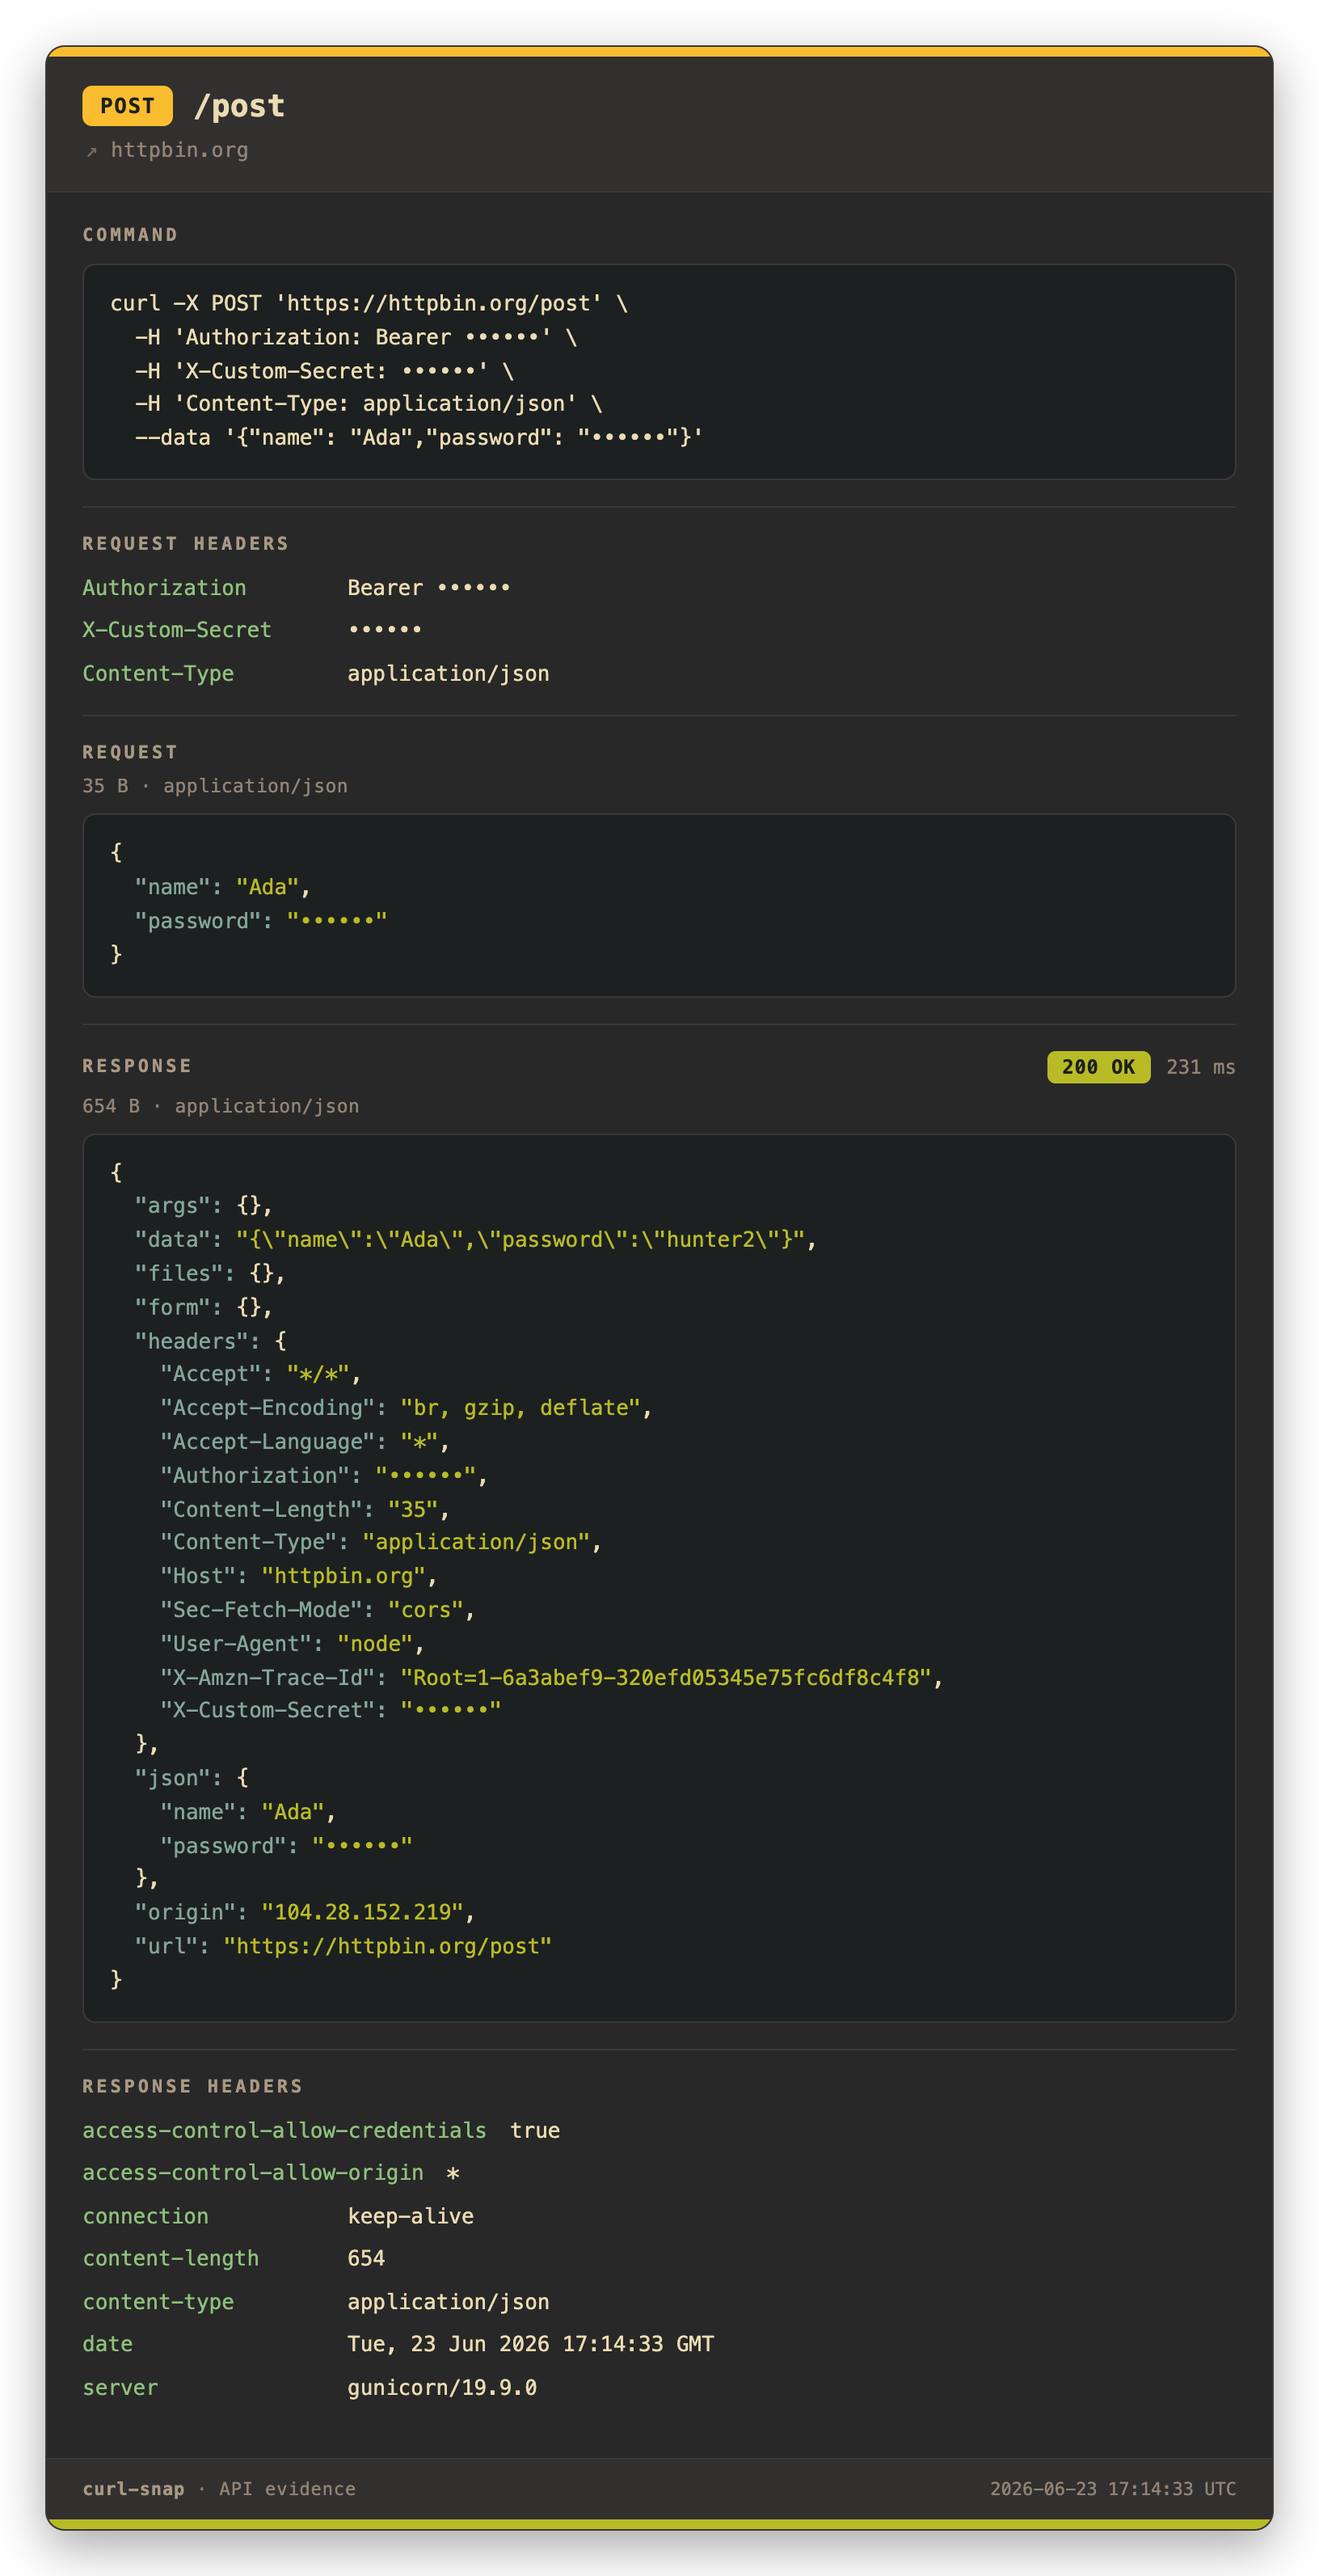
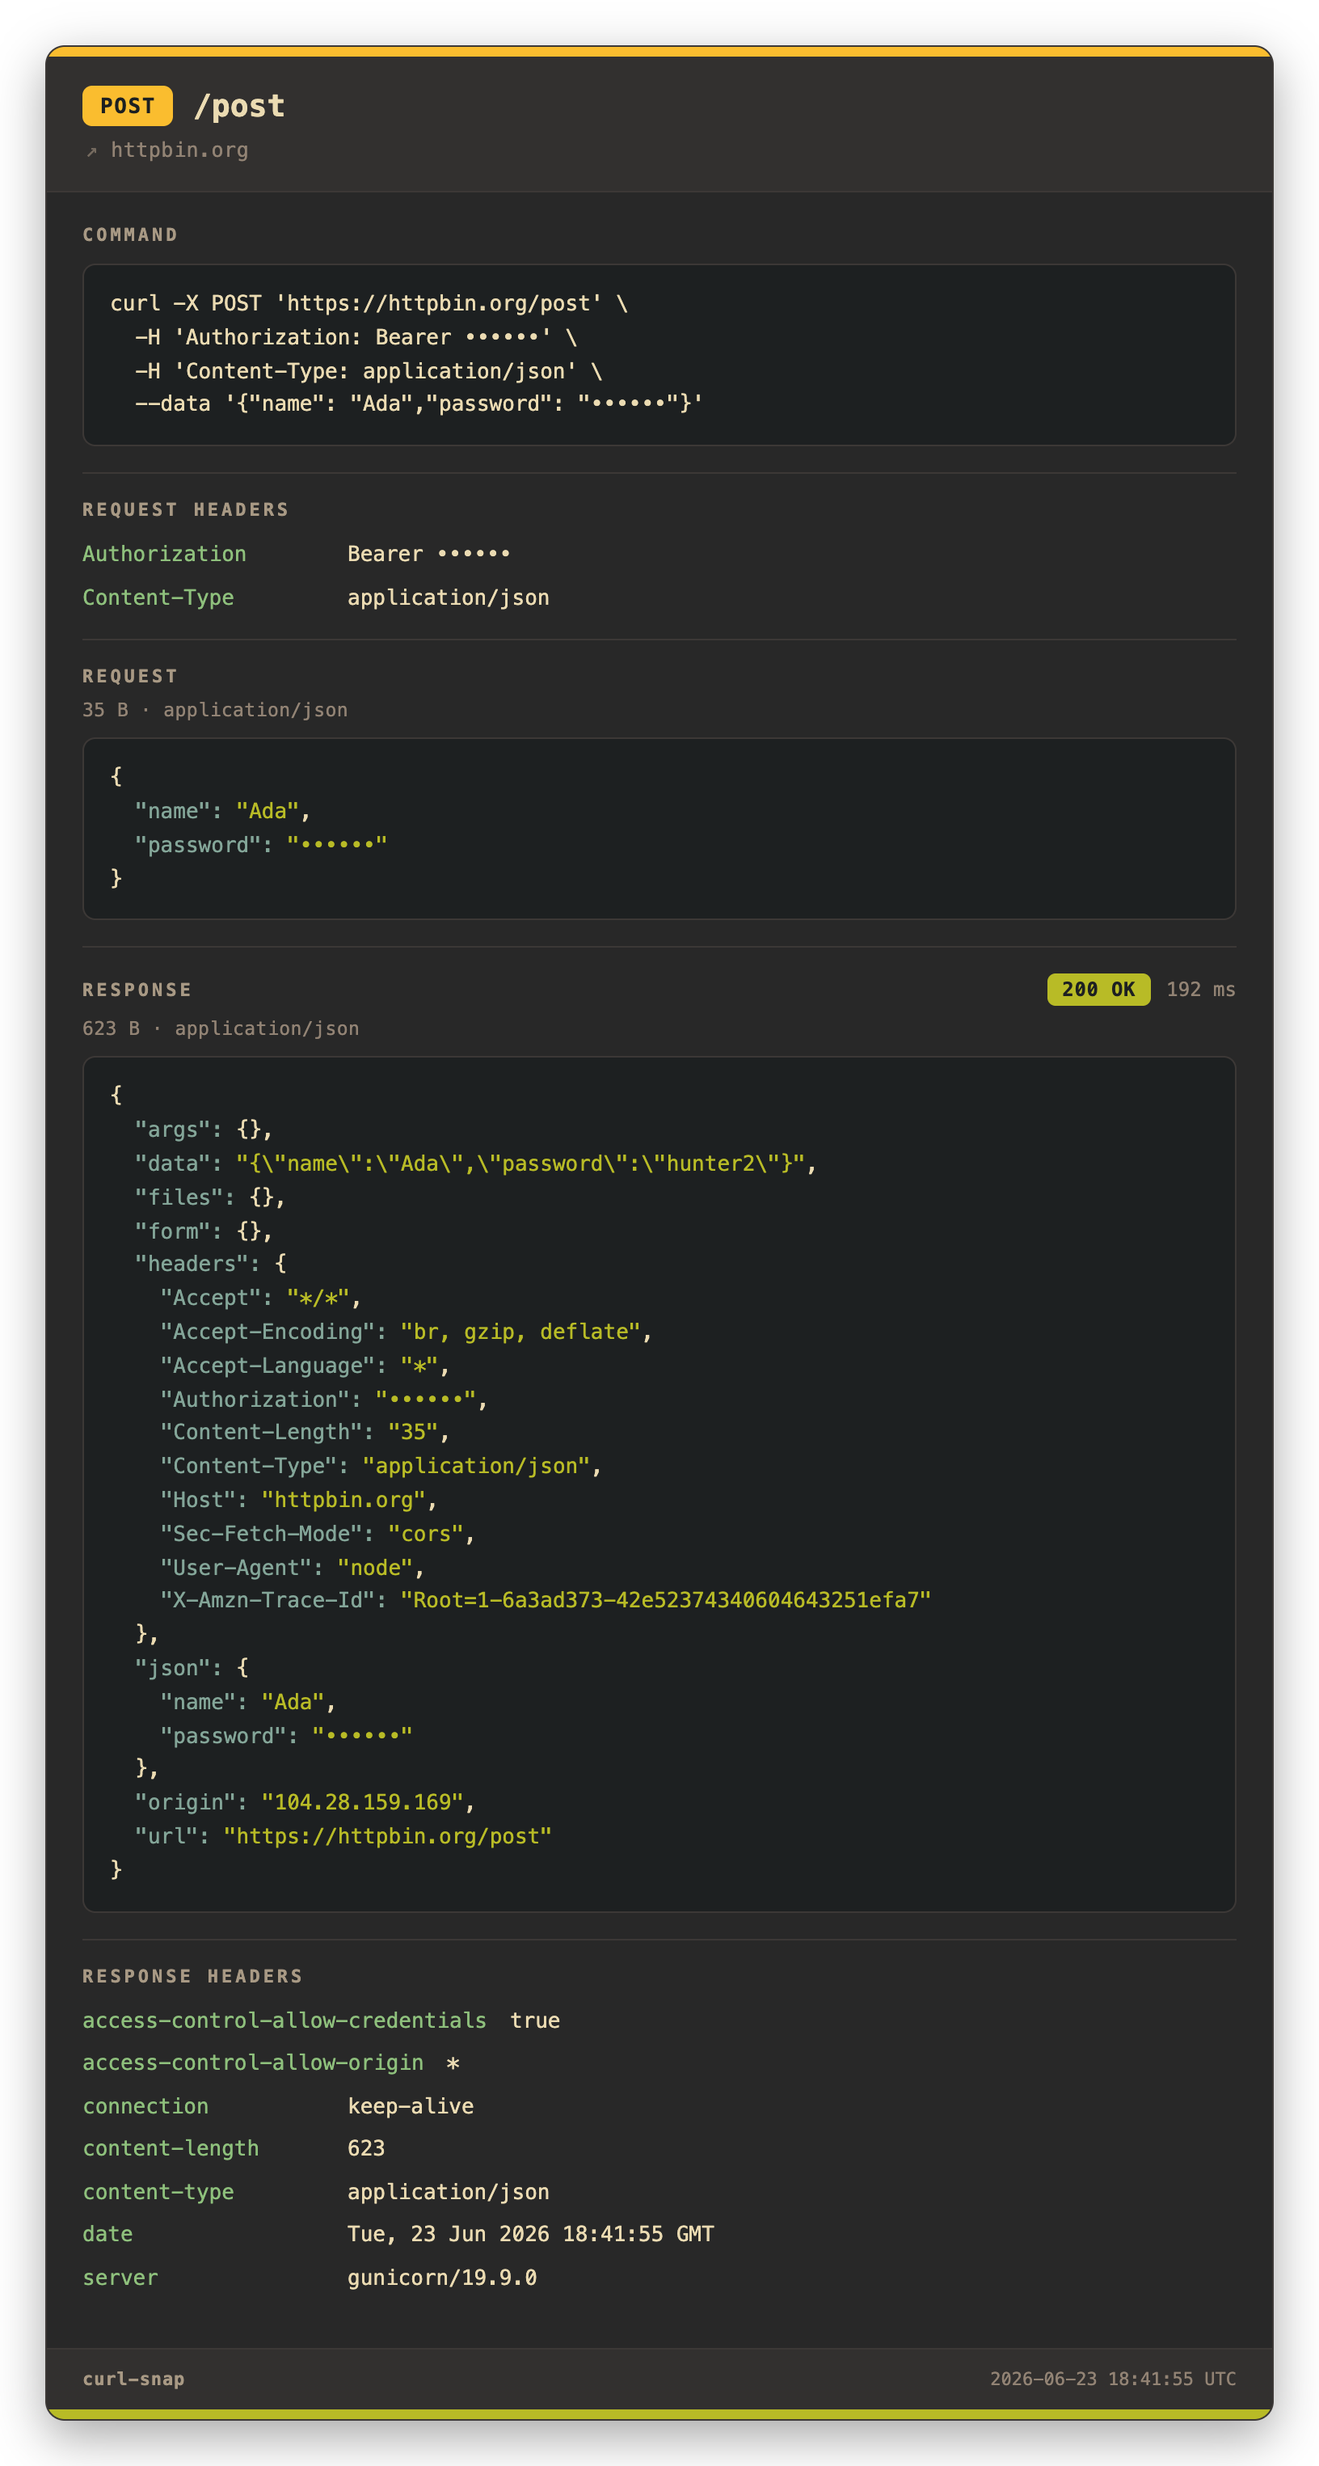
Show description/version on bare run; drop card footer subtext
- `curl-snap` with no curl now prints a short description + version instead of
  silently reading the clipboard. Clipboard input is now behind `-c`/`--clipboard`.
- Remove the "API evidence" subtext from the card footer.
- Regenerate sample screenshots.

diff --git a/bin/curl-snap.js b/bin/curl-snap.js
@@ -20,7 +20,8 @@ curl-snap — turn a curl request into a polished PNG for PR evidence
 Usage:
   curl-snap '<curl command>'        capture the given curl
   pbpaste | curl-snap               read the curl from stdin
-  curl-snap                         read the curl from the clipboard
+  curl-snap -c                      read the curl from the clipboard
+  curl-snap                         show this tool's description and version
 
 Verbosity (more metadata as you go up):
   -v, --verbosity medium            response headers + response size/type
@@ -34,6 +35,7 @@ Metadata toggles (override whatever verbosity implies):
       --command          / --no-command            (reconstructed, redacted source curl)
 
 Options:
+  -c, --clipboard      read the curl command from the clipboard
   -o, --out <file>     output PNG path (default ./curl-snap-<timestamp>.png)
       --out-dir <dir>  directory for the timestamped PNG (when --out is not set)
       --copy / --no-copy        copy (or don't) the image to the clipboard
@@ -92,6 +94,8 @@ function parseArgs(argv) {
       case '--help': opts.help = true; break;
       case '-V':
       case '--version': opts.version = true; break;
+      case '-c':
+      case '--clipboard': opts.clipboard = true; break;
       case '-o':
       case '--out': opts.out = value(); break;
       case '--out-dir': opts.outDir = value(); break;
@@ -187,16 +191,20 @@ async function main() {
   }
 
   let curl = opts._.join(' ').trim();
-  if (!curl) curl = await readStdin();
-  if (!curl) {
+  if (!curl && !process.stdin.isTTY) curl = await readStdin();
+  if (!curl && opts.clipboard) {
     curl = await readClipboard();
     if (curl) process.stderr.write('\x1b[2m(using curl command from clipboard)\x1b[0m\n');
   }
 
   if (!curl) {
-    process.stderr.write('No curl command provided. Pass one as an argument, pipe it in, or copy it.\n\n');
-    process.stdout.write(HELP);
-    process.exitCode = 1;
+    // Bare invocation (no curl anywhere): show a friendly description + version
+    // rather than trying to run nothing.
+    process.stdout.write(
+      `\x1b[1mcurl-snap\x1b[0m ${VERSION}\n` +
+        'Turn a curl request into a polished PNG for PR evidence.\n\n' +
+        "Usage: curl-snap '<curl command>'   ·   run with --help for all options\n"
+    );
     return;
   }
 

diff --git a/src/template.js b/src/template.js
@@ -304,7 +304,7 @@ export function buildHtml(model) {
       ${sections.join('\n      ')}
     </div>
     <div class="footer">
-      <span class="brand"><b>curl-snap</b> · API evidence</span>
+      <span class="brand"><b>curl-snap</b></span>
       <span>${escapeHtml(model.timestamp || '')}</span>
     </div>
     <div class="strip strip-bottom"></div>

diff --git a/CHANGELOG.md b/CHANGELOG.md
@@ -4,6 +4,13 @@ All notable changes to this project are documented here. The format is based on
 [Keep a Changelog](https://keepachangelog.com/en/1.0.0/), and this project adheres
 to [Semantic Versioning](https://semver.org/spec/v2.0.0.html).
 
+## [Unreleased]
+
+### Changed
+- Running `curl-snap` with no curl now prints a short description and version
+  instead of reading the clipboard. Clipboard input moved behind `-c`/`--clipboard`.
+- Removed the "API evidence" subtext from the card footer.
+
 ## [1.0.0] - 2026-06-23
 
 Initial release.

diff --git a/README.md b/README.md
@@ -59,9 +59,12 @@ curl-snap "curl -X POST https://api.example.com/users \
 # ...or pipe it in
 pbpaste | curl-snap
 
-# ...or just copy a curl from anywhere and run it bare — it reads your clipboard
-curl-snap
+# ...or copy a curl from anywhere and read it off the clipboard
+curl-snap -c
 ```
+
+Run `curl-snap` on its own and it just prints its description and version; add
+`--help` for the full list of options.
 
 You get a PNG in the current directory, a copy on your clipboard, and a quick
 status/timing summary in the terminal.
